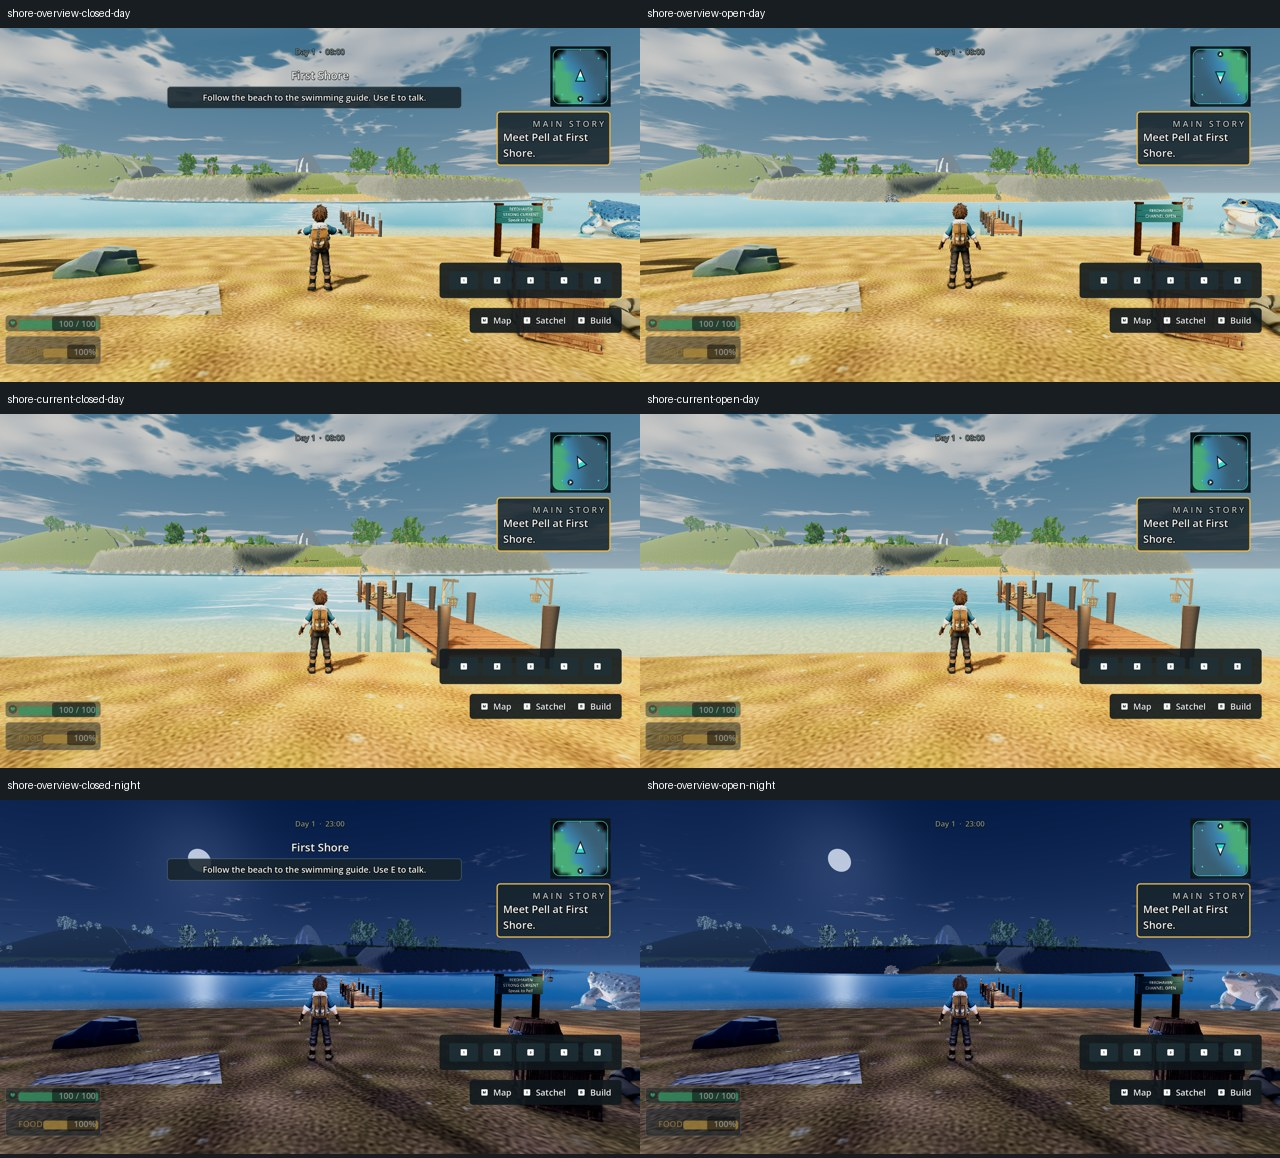
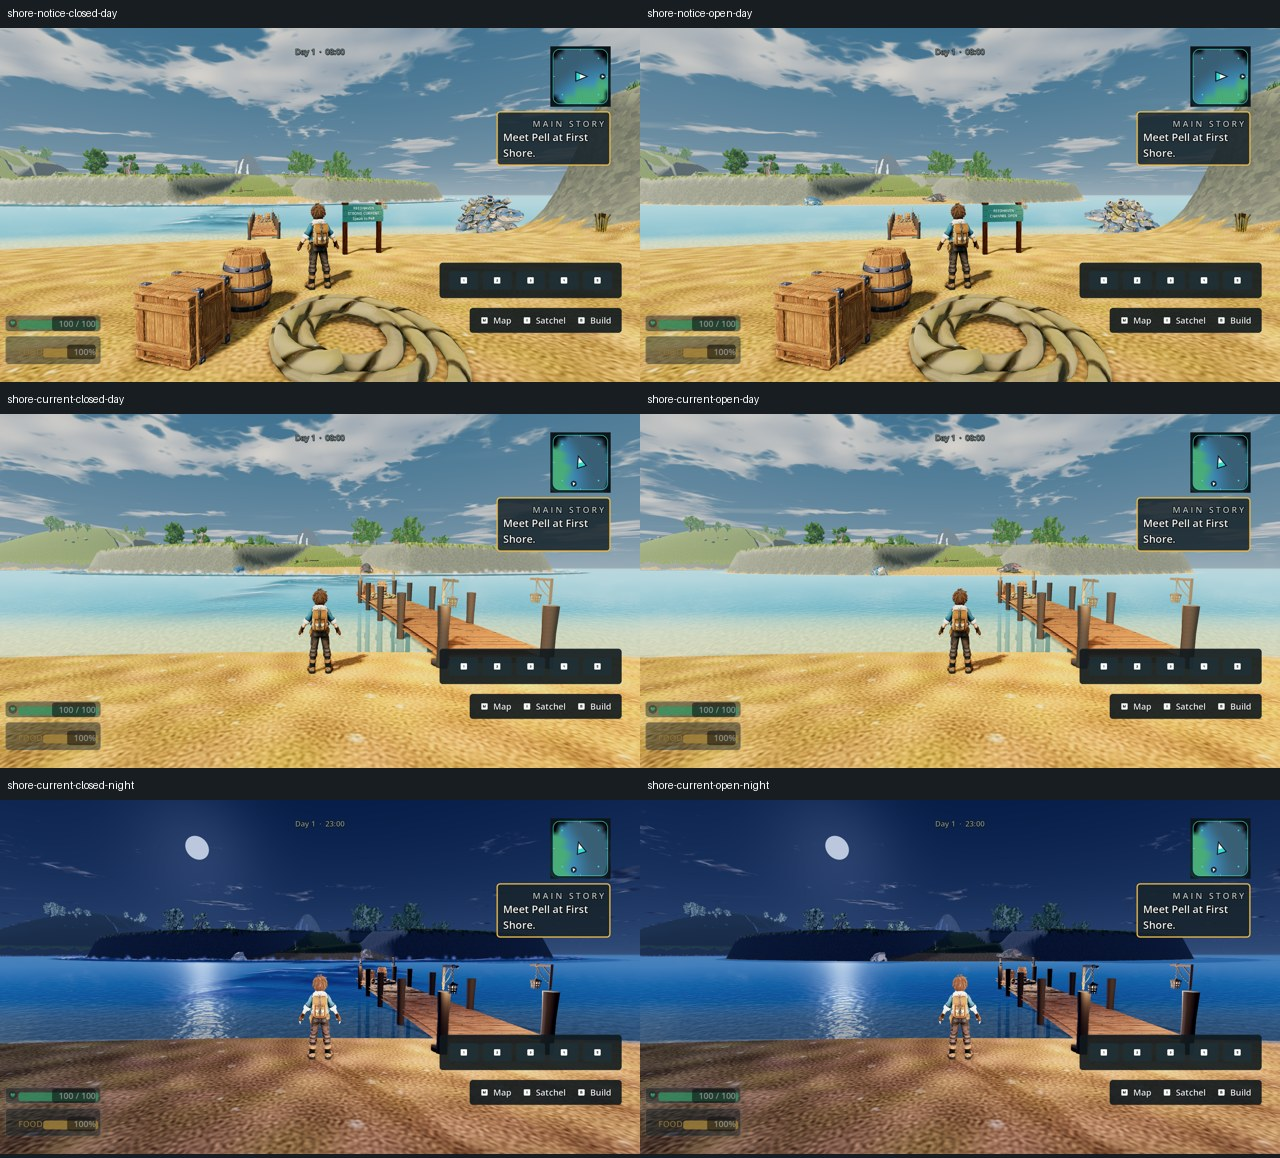
Record current-wave evidence and park failed visual criterion for broader coverage

diff --git a/ralph/reports/VISUAL/FIRST-SHORE-CURRENT.md b/ralph/reports/VISUAL/FIRST-SHORE-CURRENT.md
@@ -1,9 +1,11 @@
 # First Shore's current boundary — draft visual repair
 
 X04 / WORLD §6.3 and §6.6; owner explicitly rejected the freestanding First
-Shore fence because it does not prevent access. Implementation `d3c3764af`,
-based on main `cb9c5eb4a`. PR #329 stays draft: **environmental crossing-state
-clarity does not pass**. Claude owns merges.
+Shore fence because it does not prevent access. Causal repair `d3c3764af`, wave
+iteration `1560de9ef`, with main `b81b4fdab` integrated. PR #329 stays draft:
+**environmental crossing-state clarity does not pass**. The owner redirected
+effort to coverage of the whole game's visuals; this local iteration is parked
+with the failed criterion explicit. Claude owns merges.
 
 ## Reproduced cause and change
 
@@ -23,15 +25,18 @@ interaction, entitlement or current strength is introduced.
 The current renderer binds the same closed-dock and exact return-shortcut facts
 as physics, refreshes when effective velocities change, and rebinds replacement
 world flags. Final restoration applies each route's multiplier once. The foam
-pattern changes from long parallel streaks to broken transverse crests; this
-iteration remains visually insufficient.
+pattern now uses raised, advected wave patches and wet faces beneath individual
+crests. Stable authored-corner joins precede subdivision, avoiding folded inner
+bends. This iteration remains visually insufficient.
 
 ## Verification
 
-- Focused current-field, current-view and notice tests: **13 tests, 148
+- Focused current-field, current-view and notice tests on `1560de9ef`: **15 tests, 502
   assertions, zero failures**. Includes shared physics parity, live flags,
   replacement-world reload, effective shader motion, notice grounding and
-  clear approach, no notice collision or progression writes.
+  clear approach, no notice collision or progression writes. Actual production
+  bend winding and perpendicular widths pass: 57,096 shared vertices / 101,152
+  triangles, zero inverted triangles. This is geometry evidence, not Ally cost.
 - `smoke_tidewake_b_current_restore.gd`: **20 checks, zero failures**; production
   Guardian settlement, world save/load and retained calmer physics/presentation.
 - `smoke_water_first_shore_current_gate.gd`: **zero failures**. Real production
@@ -45,34 +50,41 @@ iteration remains visually insufficient.
   sheltered centre x−9.6. Per-route full-strength visual encoding does not prove
   exact spatial overlap/edge parity or close every possible flank.
 - Twelve native Windows 1920×1080 Compatibility captures under
-  `shots/shore-current-r3` compare closed/open overview, notice and water by day
+  `shots/shore-current-r5` compare closed/open overview, notice and water by day
   and night. Production camera, teleported stands and directly posed flags are
   disclosed visual fixtures. Godot 4.7 `5b4e0cb0f`, GTX 1060 3 GB, driver 560.94.
-  No script/shader errors; preexisting deprecated interpolation warning remains.
+  No script/shader errors; deprecated interpolation and portal resource-UID
+  fallback warnings remain. Portal textures resolve by their text paths.
+- Buffered native temporal capture: 48 frames per state. Closed spans 7.770 s
+  (120–272 ms sampling intervals); open spans 8.210 s (117–333 ms). Local GIFs
+  preserve measured intervals. Sampled frames show crest movement and calm-state
+  contrast; they do not certify continuous motion quality or target performance.
 
 ![Draft closed/open shore comparison](_sheet_first_shore_current.jpg)
 
 ## Independent review and unfinished acceptance
 
-`shore_portal_review` found no source blocker: First Shore-only removal,
+`shore_portal_review` passes the r5 source: First Shore-only removal,
 unchanged current/lesson authority and other docks, correct per-route state
-adapter, landward physical notice and reload handling. Its unnecessary forced
-mesh rebuild on unrelated restore callbacks was removed.
+adapter, landward physical notice and reload handling. Review caught 81 inverted
+triangles in an earlier densely sampled strip; authored joins fixed all of them,
+independently checked against production geometry. Shader normals approximate
+longitudinal slope; transverse/packet derivatives are a quality limitation.
 
-Code-blind `shore_current_blind_judge` inspected all twelve frames and references.
-The open state looks calmer and the unobscured sign wording is readable, but
-closed water still reads as angular surface graphics or a highlighted route.
-The distant tide-race puffs remain conspicuously repeated. It does **not** accept
-environmental crossing-state clarity. The notice-centred camera also puts the
-trainer in front of the text; an oblique ordinary-camera witness is still needed.
+Code-blind `shore_current_blind_judge` inspected r5 day/night frames, sequence
+samples and the Tidewake/Veilfall, Meadows and Palworld references. It accepts
+the unobstructed notice in the inspected ordinary-camera compositions and
+recognizes calmer open water. R5 integrates better than r4, but long smooth
+angular ridges still resemble translucent sheets; the disturbance can read as a
+route, and repeated distant tide-race puffs remain. It does **not** accept the
+water effect or environmental crossing-state clarity.
 
 Whole-frame A is **no**. B is **yes only for recognizable genre ambition**, with
 an explicit failure of shipping-quality parity; this is not a visual-bar pass.
 Broad empty sand/sky, engineered cliff walls, sparse stippled foliage, glossy
 creature versus dark props, oversized rope and disconnected paving remain.
 
-The next water iteration must change the flat graphic treatment rather than
-merely brighten it again, and needs native temporal evidence. Actual rough
-water/shore integration, full closed-route flank proof, mounted/guest movement
+Further wave tuning is deferred while the broader visual coverage resumes.
+Water/shore integration, full closed-route flank proof, mounted/guest movement
 and Ally performance remain open. Portal replacement was separately merged as
-PR #328; these captures preceded that main merge.
+PR #328 and is included in this capture's main baseline.
